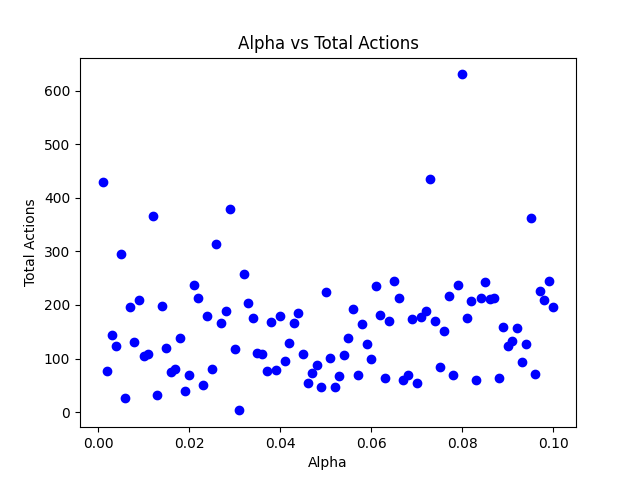
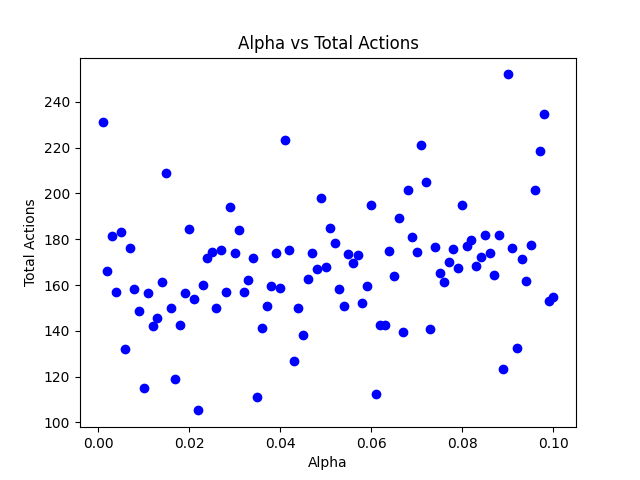
4 fixed

diff --git a/LeakBot3 copy.py b/LeakBot3 copy.py
@@ -501,7 +501,7 @@ def Bot3(width, ROWS, square, ALPHA):
 
                 sense_again = all(not i.is_path() for i in start.neighbors)
 
-                if sense_again:
+                if sense_again or beep:
 
                     next_location = get_location_of_max_probability(
                         probabilities)
@@ -557,14 +557,13 @@ def run_bot3(alpha):
     ROWS = 30
     total_actions = 0
     count = 0
-    for i in range(1):
+    for i in range(750):
         try:
             total_actions += Bot3(WIDTH, ROWS, 3, alpha)
         except Exception as e:
             print(f"Error in execution for alpha={alpha}: {e}", flush=True)
             traceback.print_exc()
             print("SKLDJFHLSDFH", flush=True)
-            return 0
             count -= 1
         count += 1
         print(count, flush=True)
